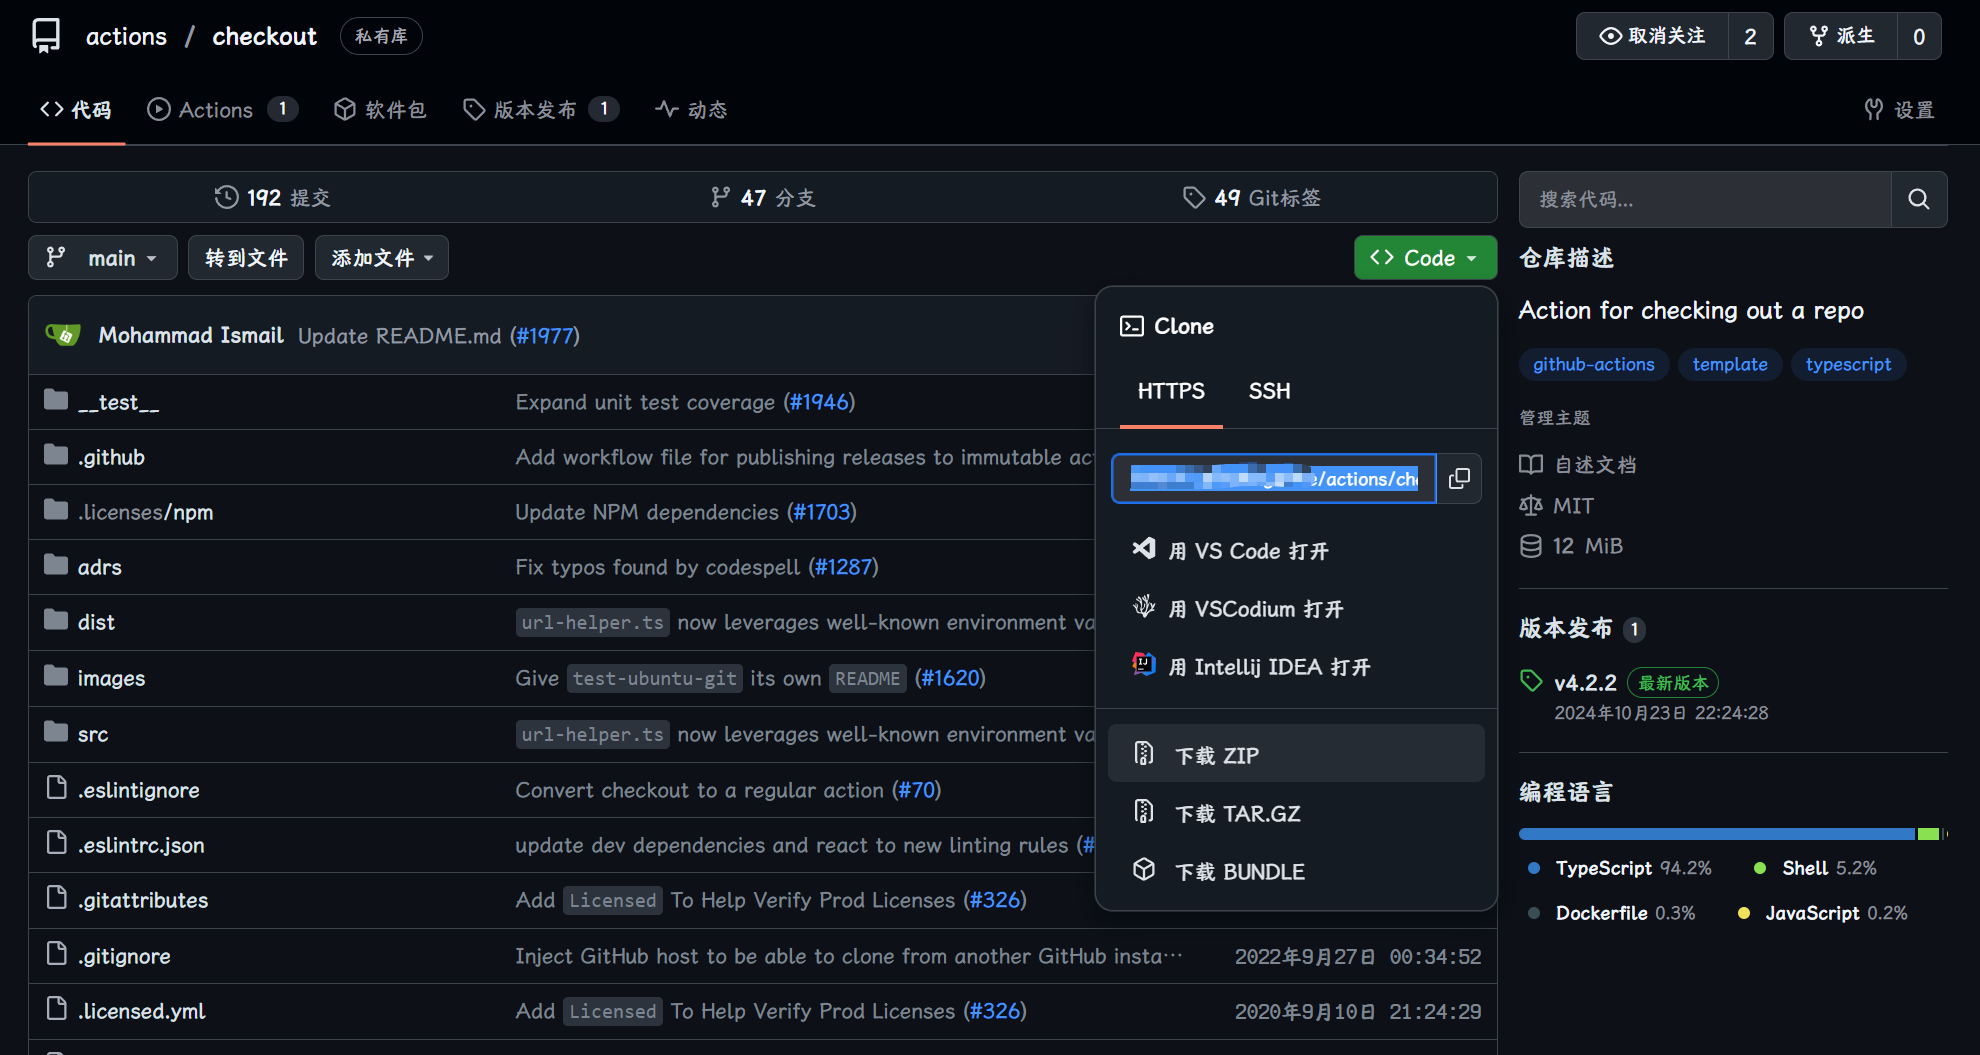
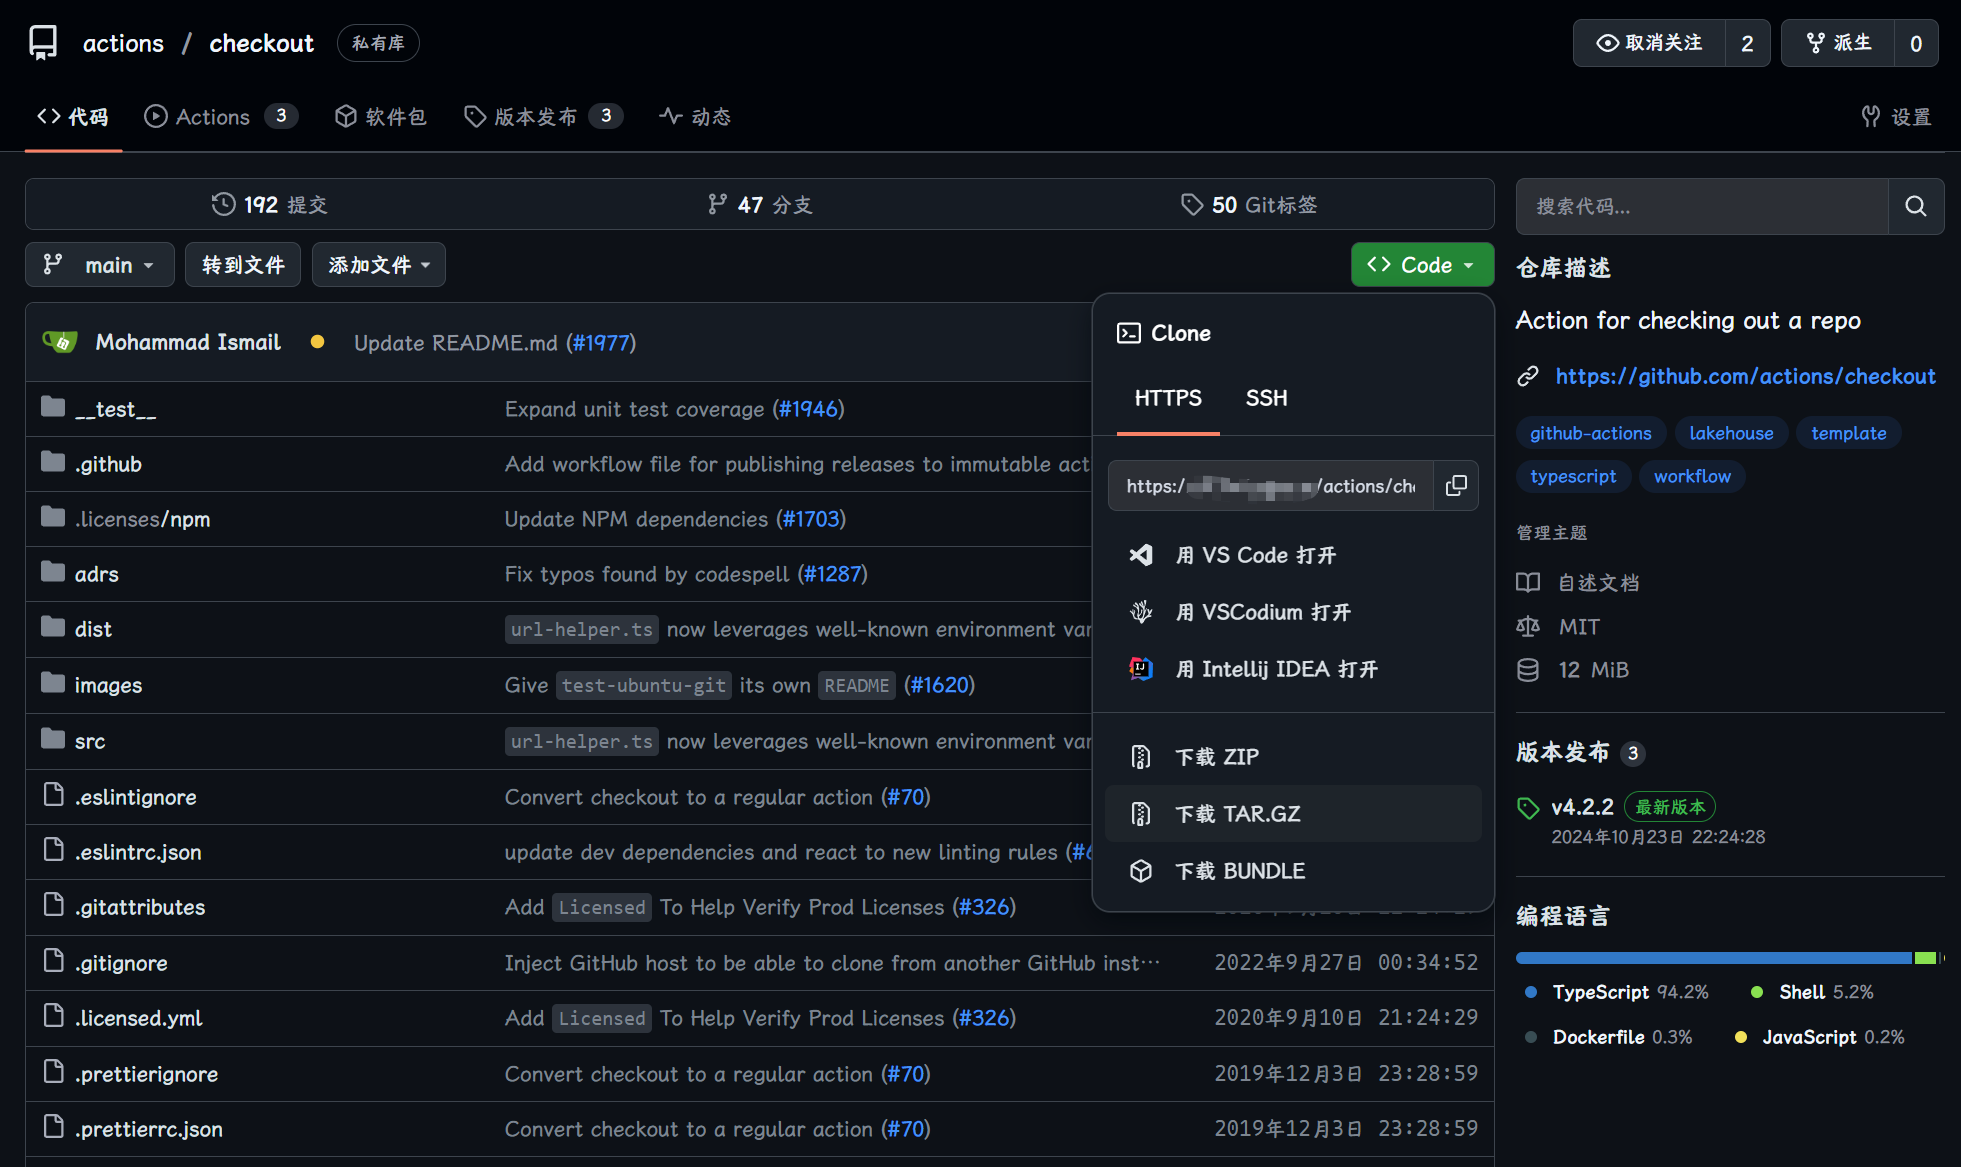
修复侧边栏协议对齐&截图更新

diff --git a/src/repo.scss b/src/repo.scss
@@ -229,7 +229,8 @@
           svg.svg {
             margin-right: 4px;
 
-            &.octicon-database{
+            &.octicon-database,
+            &.octicon-law {
               margin-right: 6px;
             }
           }

diff --git a/.github/release.md b/.github/release.md
@@ -2,8 +2,6 @@
 
 #### 更符合 GitHub 风格
 
-- 微调菜单项按钮样式
-- Actions 工作流日志页面与浏览器同宽
-- Actions 工作流日志页面样式同步
-- Actions 日志字体同步
-- 全局激活颜色和悬停颜色优化
+## 🐞 Fix
+
+- 修复侧边栏协议对齐
